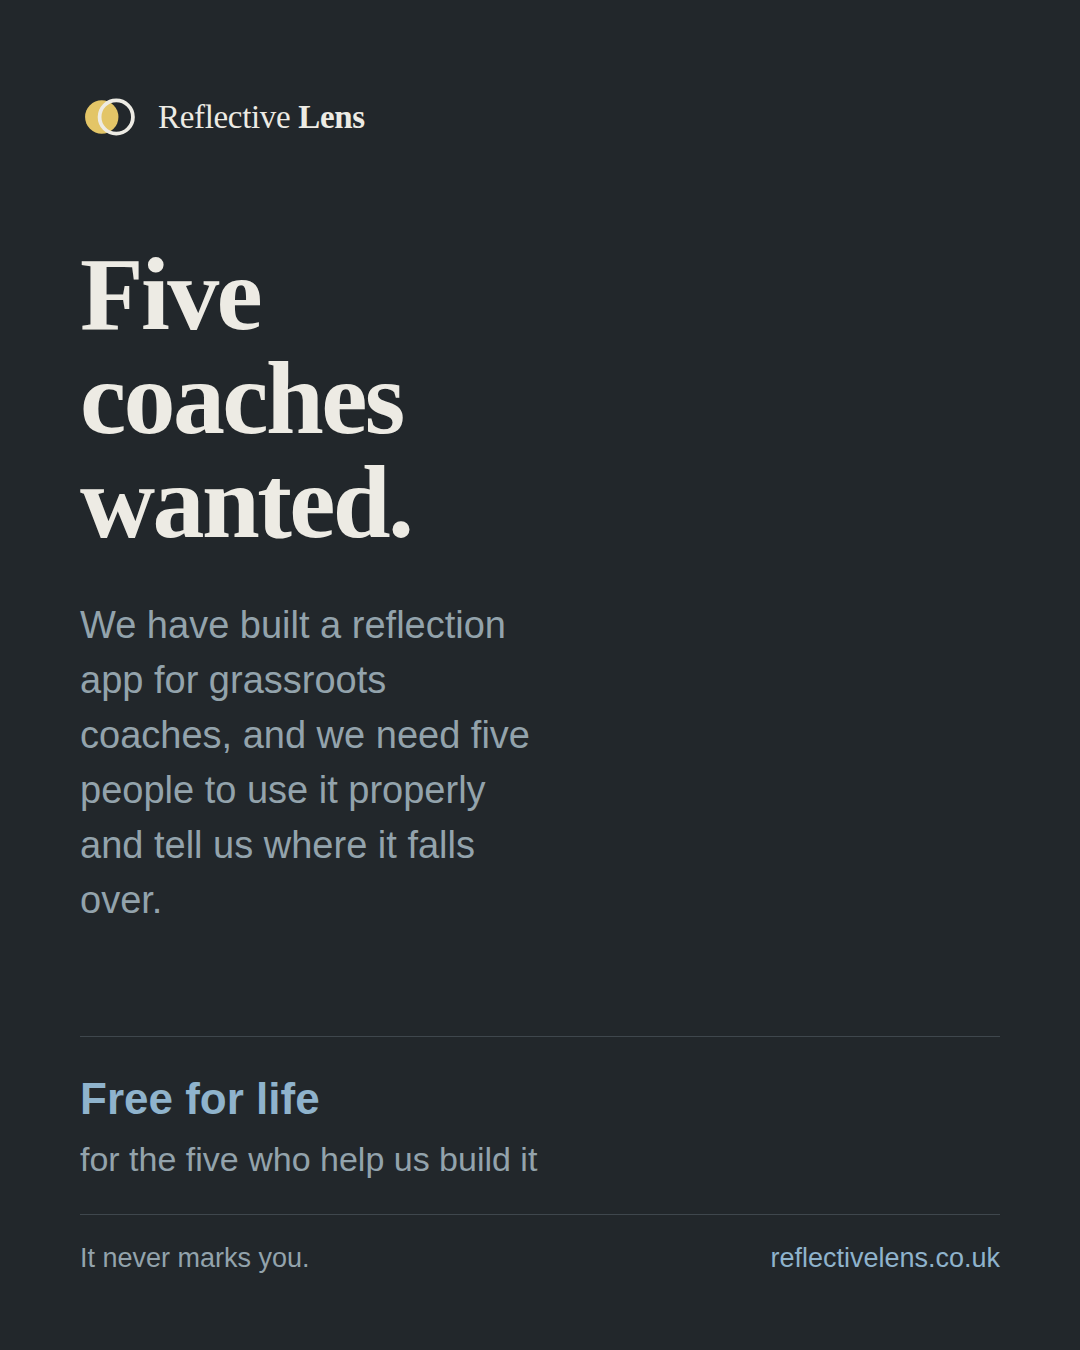
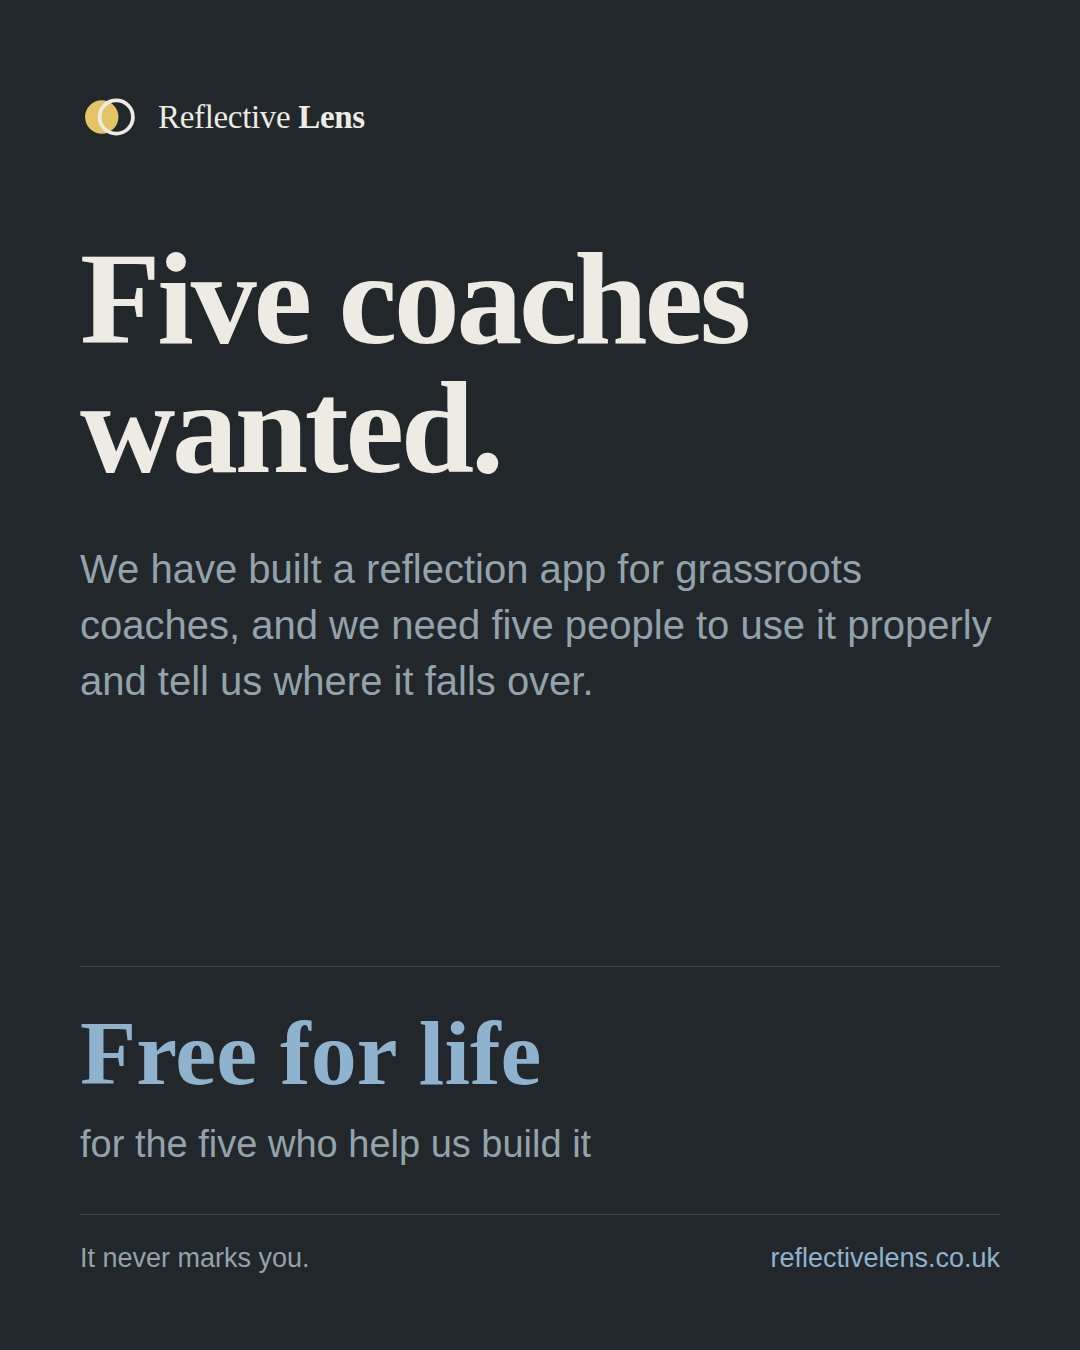
Set the type to the measure, not to the left third
Every headline was broken by hand and the body was capped at 22 characters a
line, so all three cards stacked their words down the left with half the picture
empty. It reads as something unfinished, which for the first thing five coaches
will ever see of this is the wrong first impression.

The lines run to the margin now and the sizes were chosen to fill them, rather
than a size being chosen and the line then broken to fit. 132px on the ask,
112px on the steps, 96px on the proof.

Card one had a hole left in the middle once the top filled out, so the offer
takes the size it deserves: "Free for life" at 92px in the blue that means you
can act on it. Two halves with air between them rather than a void, which is
what the space now reads as.

Changed region(s): [[0.0611, 0.1867, 0.9167, 0.6844], [0.0611, 0.7467, 0.55, 0.8711]]

diff --git a/docs/promo/generate.py b/docs/promo/generate.py
@@ -41,23 +41,21 @@ foot = ('<div><div class="rule" style="margin-bottom:28px"></div>'
 page(f'''
   <div>
     {head}
-    <h1 class="serif" style="font-size:104px;line-height:1.0;margin-top:96px">
-      Five<br>coaches<br>wanted.
+    <h1 class="serif" style="font-size:132px;line-height:.98;margin-top:88px">
+      Five coaches wanted.
     </h1>
-    <div style="font-size:38px;line-height:1.45;color:#93a3ac;margin-top:44px;max-width:22ch">
+    <div style="font-size:40px;line-height:1.4;color:#93a3ac;margin-top:48px">
       We have built a reflection app for grassroots coaches, and we need five
       people to use it properly and tell us where it falls over.
     </div>
   </div>
   <div>
-    <div class="rule" style="margin-bottom:34px"></div>
-    <div style="font-size:44px;line-height:1.25">
-      <span class="b" style="font-weight:600">Free for life</span>
-      <span class="d" style="font-size:34px;display:block;margin-top:12px">
-        for the five who help us build it
-      </span>
+    <div class="rule" style="margin-bottom:40px"></div>
+    <div class="serif b" style="font-size:92px;line-height:1;font-weight:600">Free for life</div>
+    <div class="d" style="font-size:38px;line-height:1.35;margin-top:20px">
+      for the five who help us build it
     </div>
-    <div class="rule" style="margin:34px 0 28px"></div>
+    <div class="rule" style="margin:44px 0 28px"></div>
     <div class="foot"><span>It never marks you.</span>
       <span class="u">reflectivelens.co.uk</span></div>
   </div>
@@ -67,8 +65,8 @@ page(f'''
 page(f'''
   <div>
     {head}
-    <h1 class="serif" style="font-size:76px;line-height:1.06;margin-top:70px">
-      Your own words,<br>given back<br><span class="y">organised</span>.
+    <h1 class="serif" style="font-size:96px;line-height:1.02;margin-top:64px">
+      Your own words, given back <span class="y">organised</span>.
     </h1>
   </div>
   <div style="background:#2b3136;border:1px solid #3f474d;border-radius:6px;padding:44px 42px;margin:44px 0">
@@ -98,8 +96,8 @@ page(f'''
 page(f'''
   <div>
     {head}
-    <h1 class="serif" style="font-size:80px;line-height:1.05;margin-top:80px">
-      A minute<br>after training.
+    <h1 class="serif" style="font-size:112px;line-height:1.0;margin-top:76px">
+      A minute after training.
     </h1>
   </div>
   <div style="display:flex;flex-direction:column;gap:40px;margin:30px 0">

diff --git a/docs/recruiting-post.md b/docs/recruiting-post.md
@@ -29,6 +29,12 @@ set large enough to survive WhatsApp's compression.
 | `wa-3-how.png` | The three steps | Optional. Only if the group is a chatty one. |
 | `promo-square.png` | 1080x1080 | Facebook, or anywhere square is wanted. |
 
+**Set the type to the measure.** The first pass broke every headline by hand and
+capped the body at 22 characters a line, so all three cards had their words
+stacked down the left and half the picture empty. A poster is read at arm's
+length on a phone: let the line run to the margin and choose a size that fills
+it, rather than choosing a size and then breaking the line to fit.
+
 **Send two, not three.** A group post that arrives as a wall of images gets
 scrolled past, and the third card says nothing the first two have not.
 
